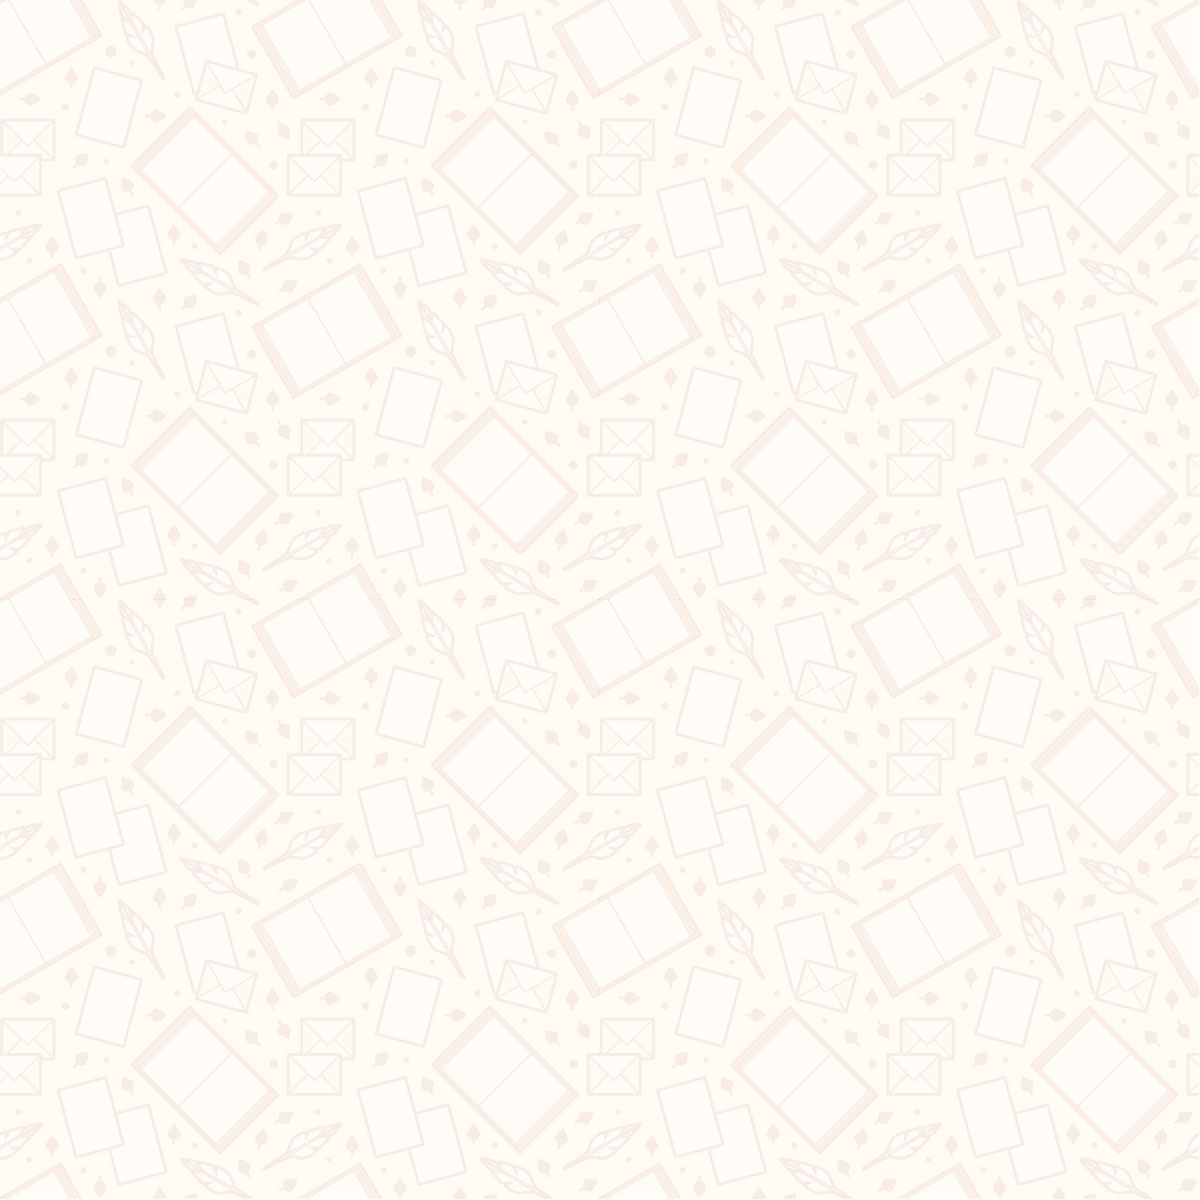
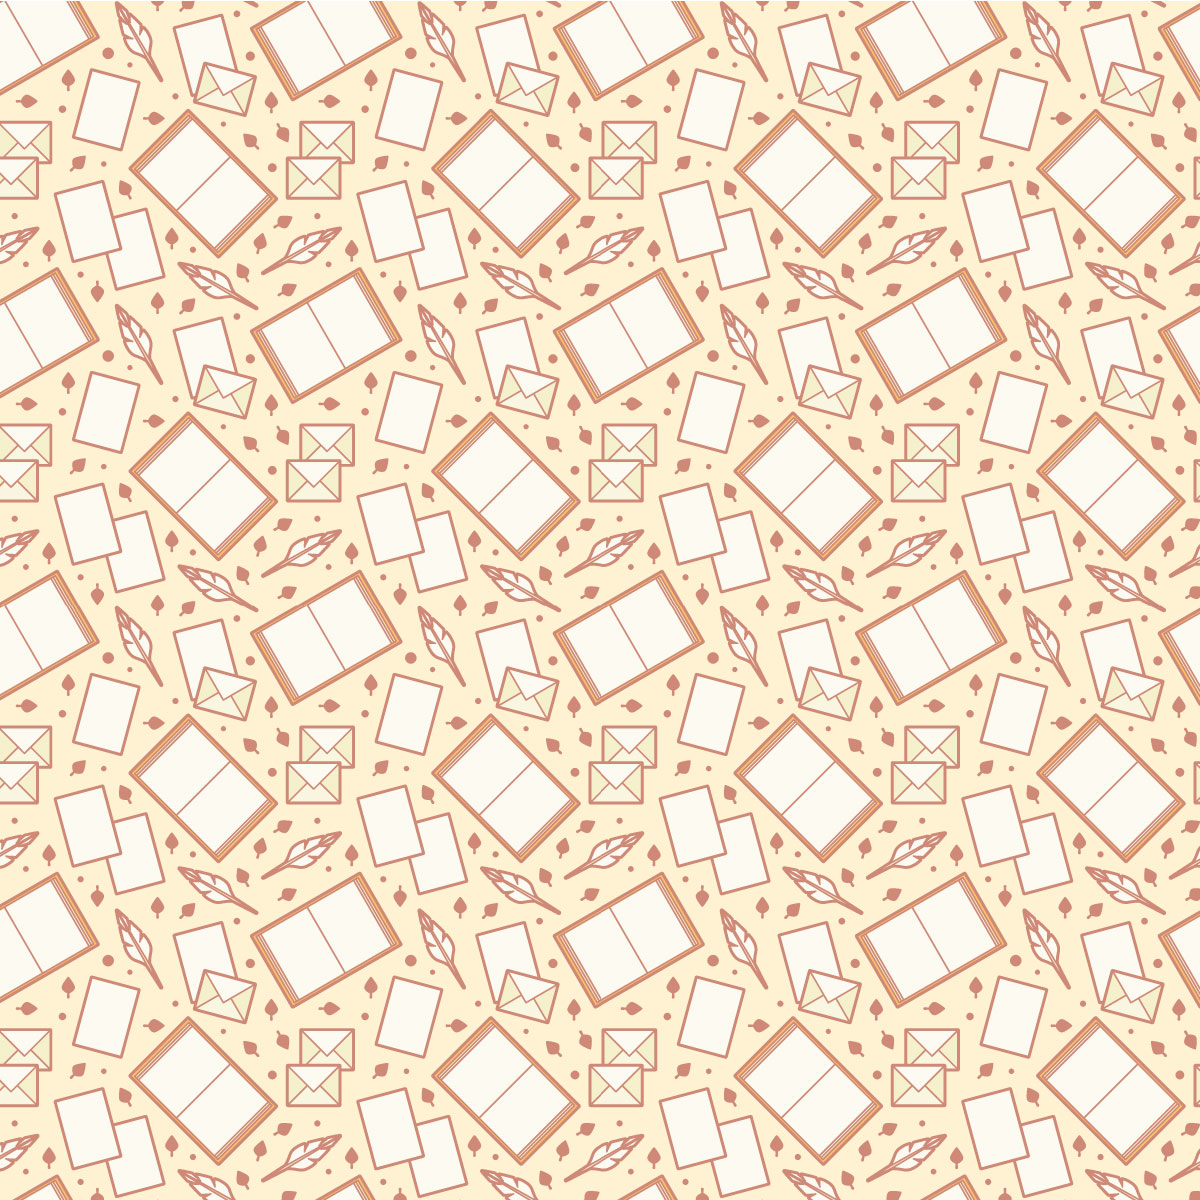
added new bg and changes stylesheet

diff --git a/stylesheets/style.css b/stylesheets/style.css
@@ -64,27 +64,13 @@ article, aside, details, figcaption, figure, footer, header, hgroup, main, menu,
 }
 
 /* line 1, ../sass/_reset.scss */
-.row {
-  *zoom: 1;
-}
-/* line 3, ../sass/_reset.scss */
-.row:before, .row:after {
-  content: " ";
-  display: table;
-}
-/* line 7, ../sass/_reset.scss */
-.row:after {
-  clear: both;
-}
-
-/* line 11, ../sass/style.scss */
 *, *::after, *::before {
   -moz-box-sizing: border-box;
   -webkit-box-sizing: border-box;
   box-sizing: border-box;
 }
 
-/* line 14, ../sass/style.scss */
+/* line 4, ../sass/_reset.scss */
 html,
 body {
   -moz-box-sizing: border-box;
@@ -92,70 +78,85 @@ body {
   box-sizing: border-box;
 }
 
-/* line 21, ../sass/style.scss */
+/* line 10, ../sass/_reset.scss */
+.row {
+  *zoom: 1;
+}
+/* line 12, ../sass/_reset.scss */
+.row:before, .row:after {
+  content: " ";
+  display: table;
+}
+/* line 16, ../sass/_reset.scss */
+.row:after {
+  clear: both;
+}
+
+/* line 13, ../sass/style.scss */
 body {
   color: #333;
   font-family: 'Roboto', sans-serif;
   background: url(../images/body-bg.jpg) repeat 0 0;
   background-size: cover;
   background-attachment: fixed;
+  line-height: 1.35;
 }
 
-/* line 29, ../sass/style.scss */
+/* line 22, ../sass/style.scss */
 h2 {
   font-size: 25px;
 }
 
-/* line 33, ../sass/style.scss */
+/* line 26, ../sass/style.scss */
 a {
   text-decoration: none;
 }
 
-/* line 37, ../sass/style.scss */
+/* line 30, ../sass/style.scss */
 .clear {
   clear: both;
 }
 
-/* line 41, ../sass/style.scss */
+/* line 34, ../sass/style.scss */
 img {
   width: 100%;
   display: block;
   height: auto;
 }
 
-/* line 47, ../sass/style.scss */
+/* line 40, ../sass/style.scss */
 .container {
   width: 1200px;
   max-width: 96%;
   margin: 0 auto;
 }
 
-/* line 52, ../sass/style.scss */
+/* line 45, ../sass/style.scss */
 .row {
   margin-left: -15px;
   margin-right: -15px;
 }
 
-/* line 58, ../sass/style.scss */
+/* line 51, ../sass/style.scss */
 .row-margin--bottom {
   margin-bottom: 30px;
 }
 
-/* line 62, ../sass/style.scss */
+/* line 55, ../sass/style.scss */
 .col-2 {
   width: 50%;
   float: left;
   padding: 0 15px 0 15px;
 }
 
-/* line 68, ../sass/style.scss */
+/* line 61, ../sass/style.scss */
 .col-3 {
   width: 33.33333%;
   float: left;
   padding: 0 15px 0 15px;
 }
 
-/* line 74, ../sass/style.scss */
+/* line 67, ../sass/style.scss */
 .col-3:last-of-type {
   margin-right: 0;
 }
@@ -247,11 +248,10 @@ header nav ul li a:hover {
 /* line 14, ../sass/_content.scss */
 .content p {
   font-size: 14px;
-  line-height: 25px;
   margin-bottom: 15px;
 }
 
-/* line 21, ../sass/_content.scss */
+/* line 20, ../sass/_content.scss */
 .content a {
   display: inline-block;
   border-color: #ccc;
@@ -262,17 +262,17 @@ header nav ul li a:hover {
   color: #000;
 }
 
-/* line 34, ../sass/_content.scss */
+/* line 33, ../sass/_content.scss */
 .alt-content {
   background: #09a0af;
 }
 
-/* line 39, ../sass/_content.scss */
+/* line 38, ../sass/_content.scss */
 .alt-content figure {
   margin-right: 0;
 }
 
-/* line 43, ../sass/_content.scss */
+/* line 42, ../sass/_content.scss */
 .alt-content .content-text {
   margin-right: 15px;
 }
@@ -280,5 +280,6 @@ header nav ul li a:hover {
 /* line 1, ../sass/_footer.scss */
 footer {
   padding: 10px 0;
-  background: #ccc;
+  background: #003c42;
+  color: #fff;
 }

diff --git a/sass/style.scss b/sass/style.scss
@@ -3,19 +3,11 @@
 @import "reset.scss";
 $white:#fff;
 $black:#000;
+
 $brandcolor:#000;
 $contentbg:#068592;
 $commontransition:all 500ms ease-in;
 $row-margin--bottom:30px;
-
-*, *::after, *::before{
-    @include box-sizing(border-box);
-}
-html,
-body {
-    @include box-sizing(border-box);
-}
-
 
 
 body {
@@ -23,7 +15,8 @@ body {
     font-family: 'Roboto', sans-serif;
     background: url(../images/body-bg.jpg) repeat 0 0;
     background-size: cover;
-    background-attachment: fixed
+    background-attachment: fixed;
+    line-height: 1.35;
 }
 
 h2 {

diff --git a/sass/_reset.scss b/sass/_reset.scss
@@ -1,3 +1,12 @@
+*, *::after, *::before{
+    @include box-sizing(border-box);
+}
+html,
+body {
+    @include box-sizing(border-box);
+}
+
+
 %clearfix {
   *zoom: 1;
   &:before, &:after {

diff --git a/sass/_footer.scss b/sass/_footer.scss
@@ -1,4 +1,5 @@
 footer{
     padding: 10px 0;
-    background: #ccc;
+    background: #003c42;
+    color:$white
 }

diff --git a/sass/_content.scss b/sass/_content.scss
@@ -13,7 +13,6 @@
 
 .content p{
     font-size: 14px;
-    line-height: 25px;
     margin-bottom: 15px;
 }
 
